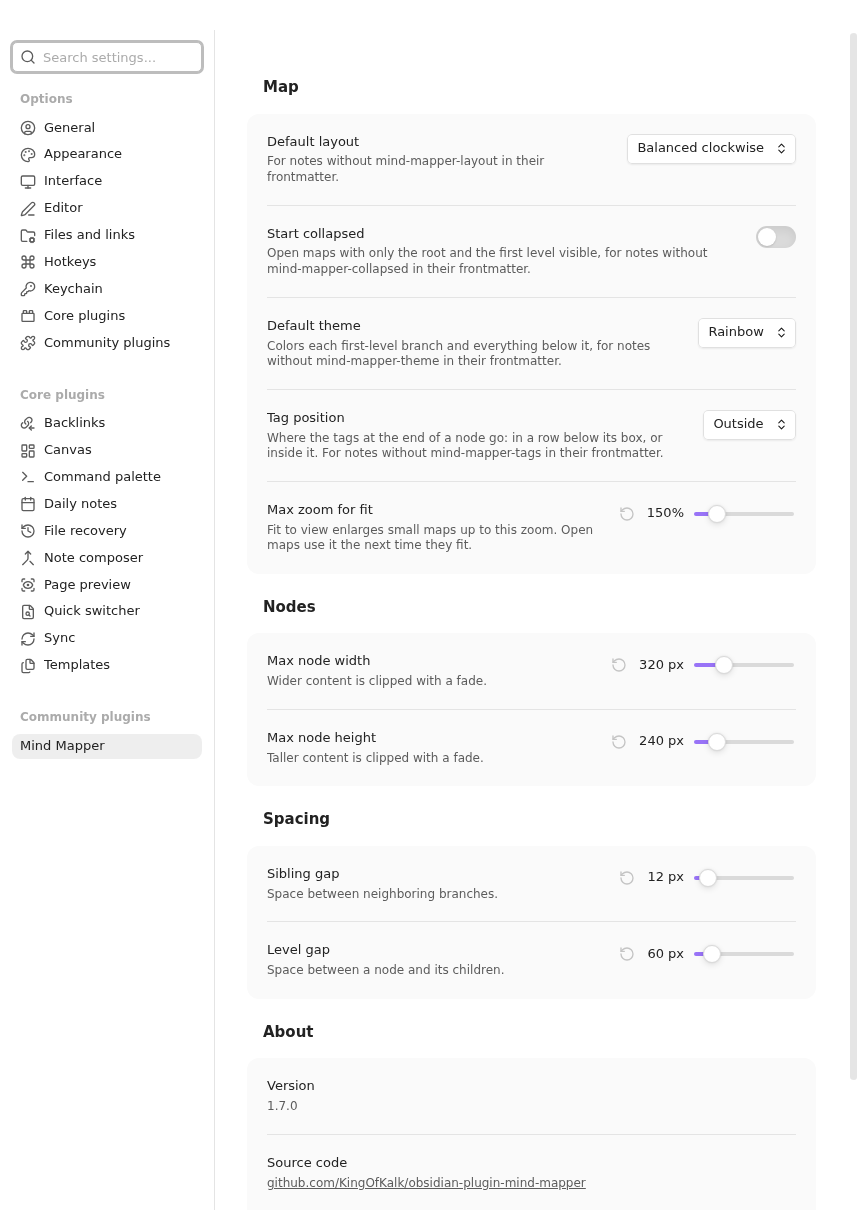
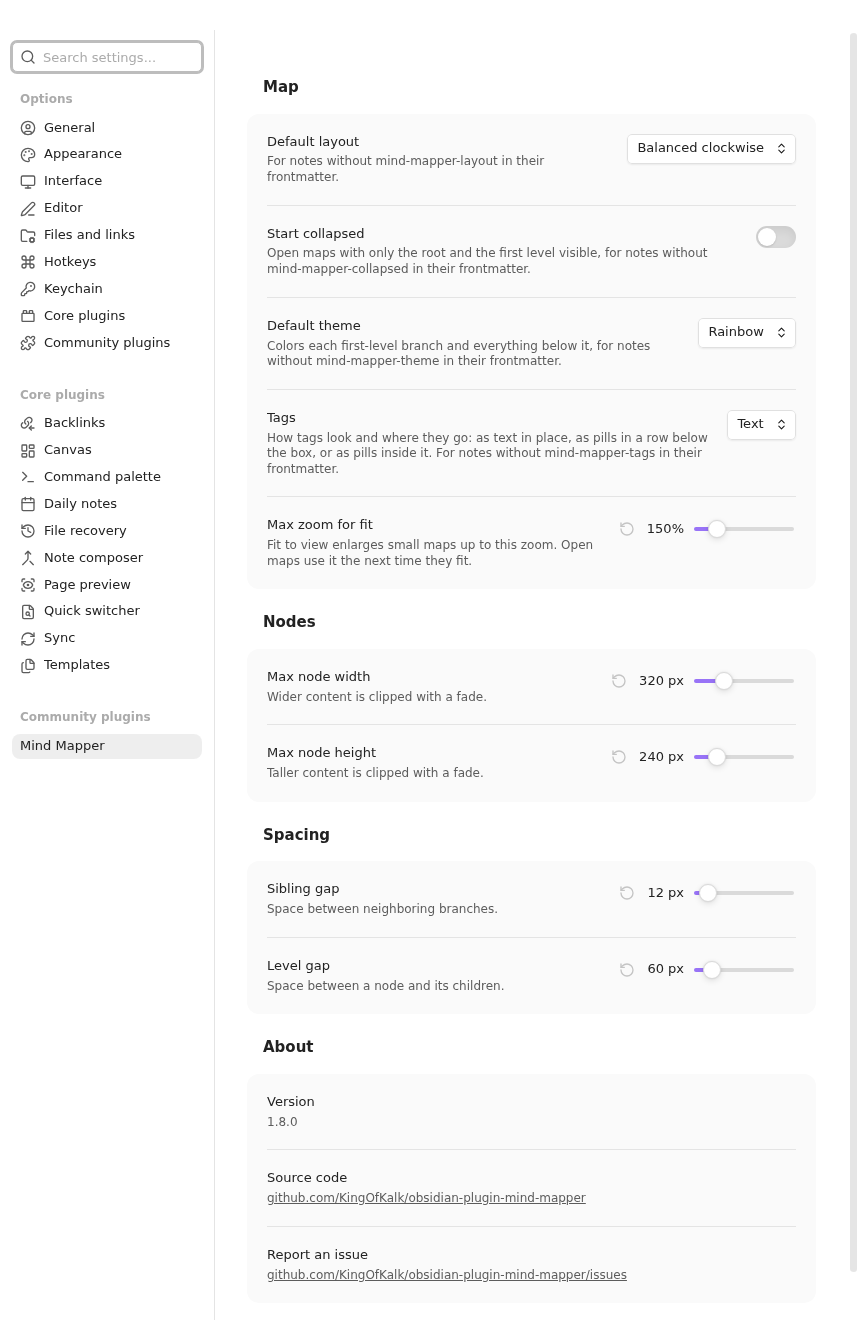
docs: show the Tags setting and the full About group in the settings image

diff --git a/e2e/manualImages.e2e.ts b/e2e/manualImages.e2e.ts
@@ -314,7 +314,7 @@ describe('user manual images', function () {
     const settings = (await browser.getWindowHandles()).find((h) => h !== main);
     if (!settings) throw new Error('no settings window');
     await browser.switchToWindow(settings);
-    await setWindowSize(860, 1210);
+    await setWindowSize(860, 1320);
     // the window title holds the random name of the temporary vault
     await browser.execute(() => {
       const style = document.head.createEl('style');
